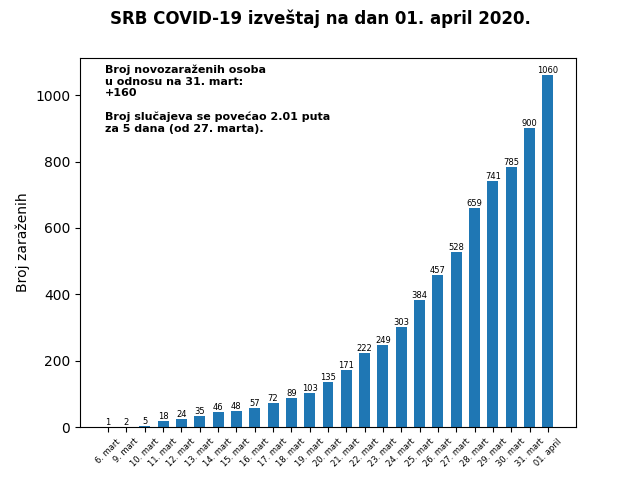
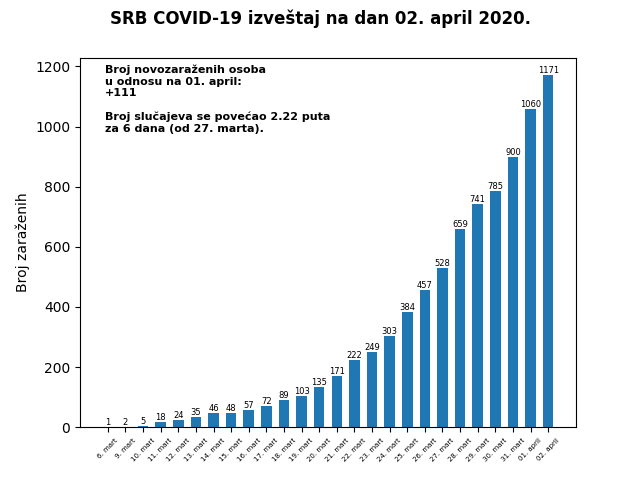
Updated and refactored

diff --git a/main.py b/main.py
@@ -166,7 +166,11 @@ if "Информације" in tts_content.find('h1', class_='col-xs-12').text:
     try:
         start_index = row_tts_link.index("укупно")
         end_index = row_tts_link.index("потврђен")
-        cases = int(row_tts_link[start_index+7:end_index])
+        cases_str = row_tts_link[start_index+7:end_index]
+        if "." in cases_str:
+            cases = int(cases_str.replace(".",""))
+        else:
+            cases = int(cases_str)
 
         with open("data.json", "r+") as json_file:
             data = json.load(json_file)
@@ -202,7 +206,7 @@ if "Информације" in tts_content.find('h1', class_='col-xs-12').text:
                               align='center', width=0.6)
                 plt.xticks(range(len(data)), list(data.keys()),
                            rotation=45)
-                plt.tick_params(axis='x', which='major', labelsize=6)
+                plt.tick_params(axis='x', which='major', labelsize=5)
                 plt.ylabel('Broj zaraženih')
                 plt.suptitle(f'SRB COVID-19 izveštaj na dan {day}.'
                              f' {month} 2020.', fontsize=12,
@@ -251,7 +255,7 @@ if "Информације" in tts_content.find('h1', class_='col-xs-12').text:
                 logging.info("No new number of cases "
                              "to append to JSON!")
     except ValueError:
-        logging.error("Couldn't find 'регистровано укупно' or"
+        logging.error("Couldn't find 'укупно' or"
                       "'потврђен' substring!")
 
 else:
